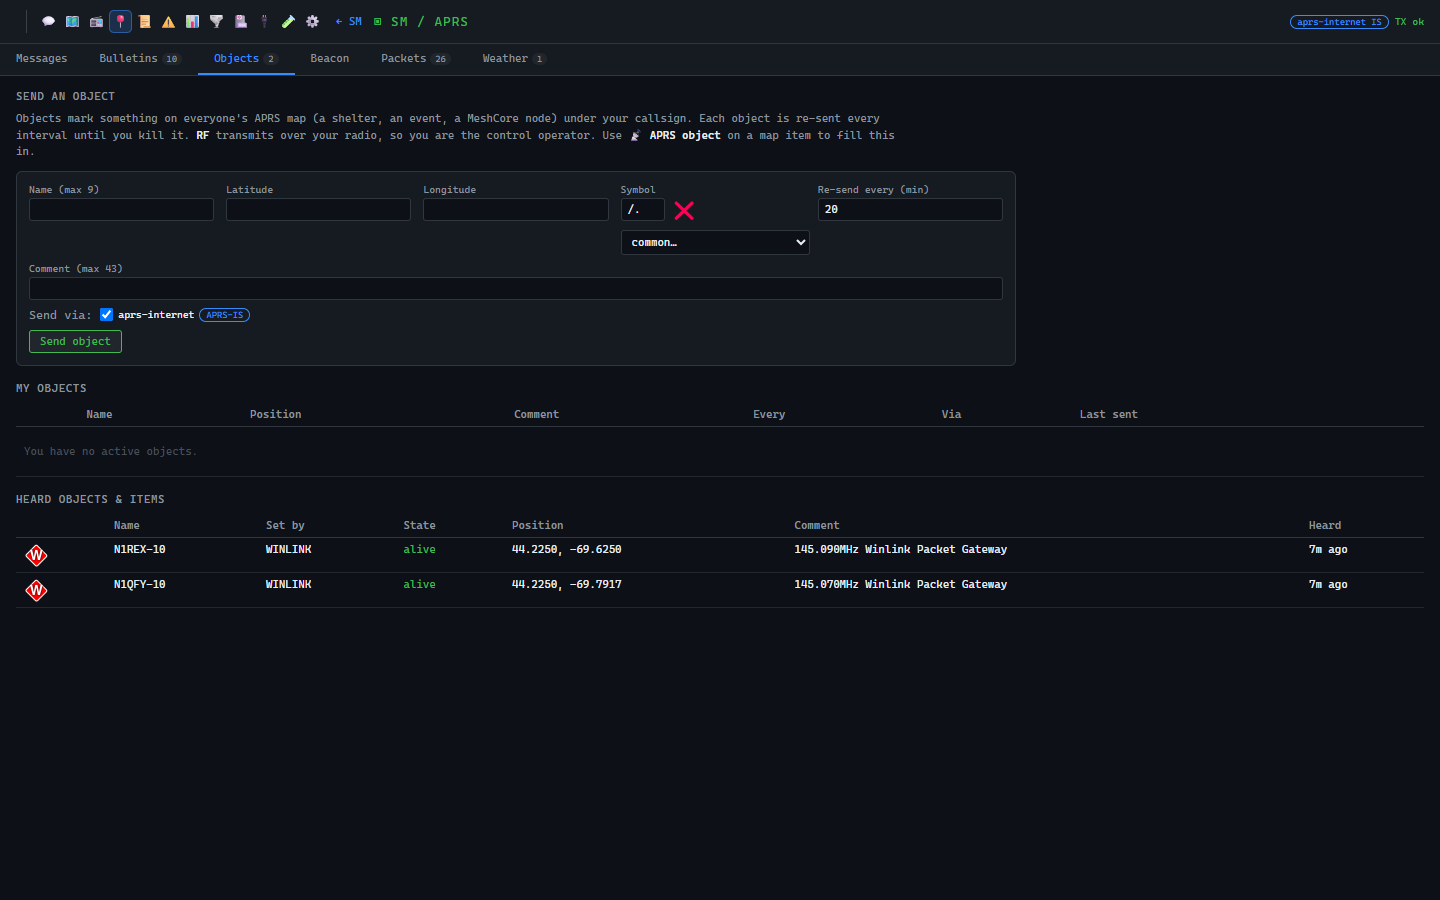
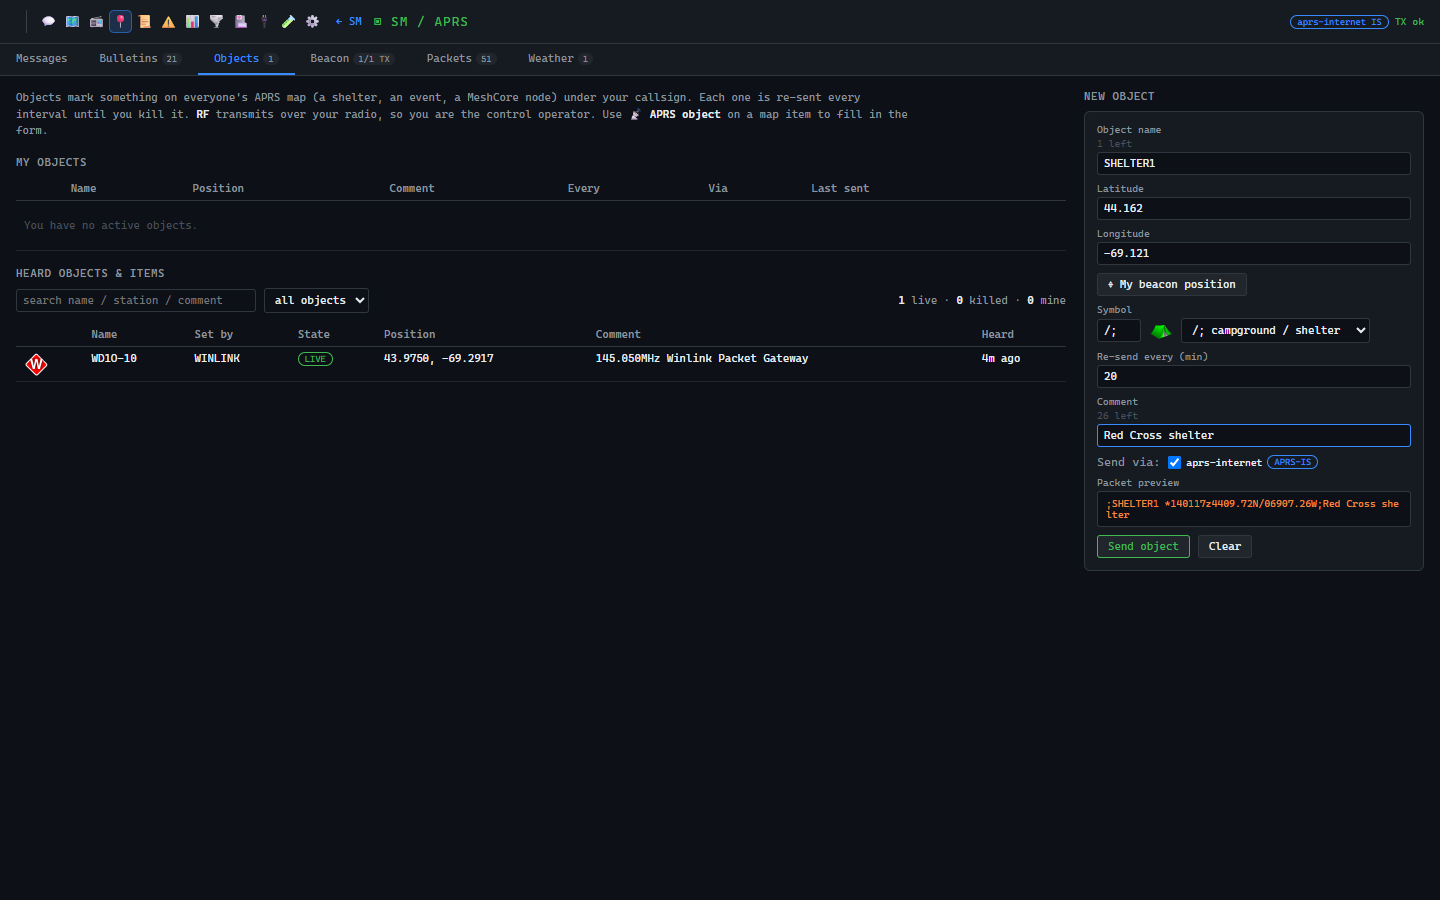
Update APRS Objects screenshot (two-pane layout)
Claude-Session: https://claude.ai/code/session_01Hccvaa8co2Ep7DK9mHEwhG

diff --git a/README.md b/README.md
@@ -1,6 +1,6 @@
 # SignalMatrix
 
-**Version 1.0.0-rc277** (from the `VERSION` file — synced automatically on every deploy by `deploy/build_and_scp.ps1`)
+**Version 1.0.0-rc279** (from the `VERSION` file — synced automatically on every deploy by `deploy/build_and_scp.ps1`)
 
 SignalMatrix is a Python/FastAPI application that bridges multiple emergency-communications radio networks into a single web dashboard. It runs on a laptop, thin client, or Raspberry Pi at an incident command post, field site, or contest operation and lets operators monitor, log, and relay messages across all active links from a browser on the LAN.
 
